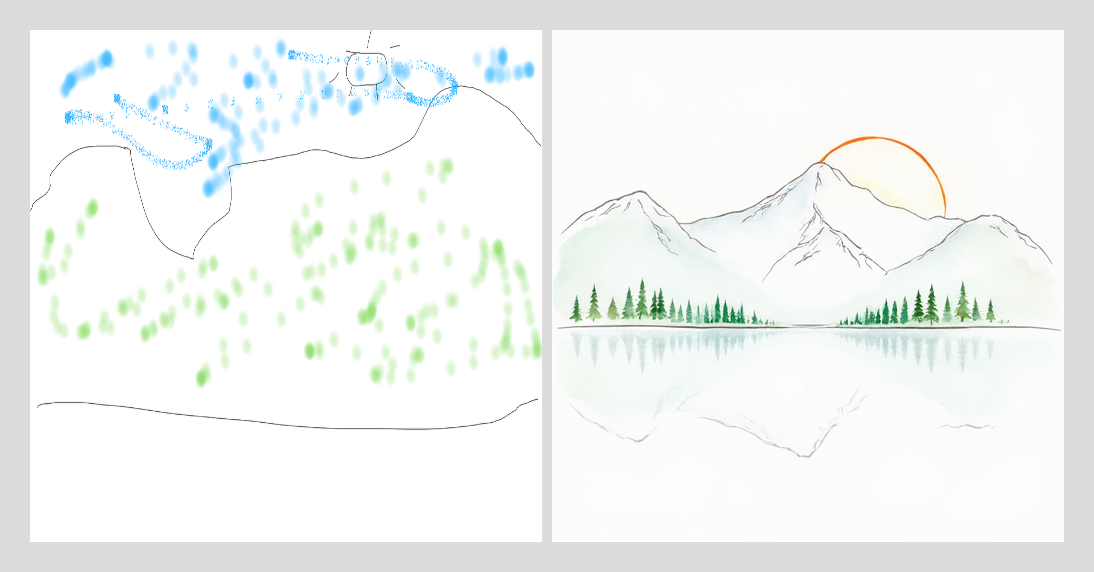
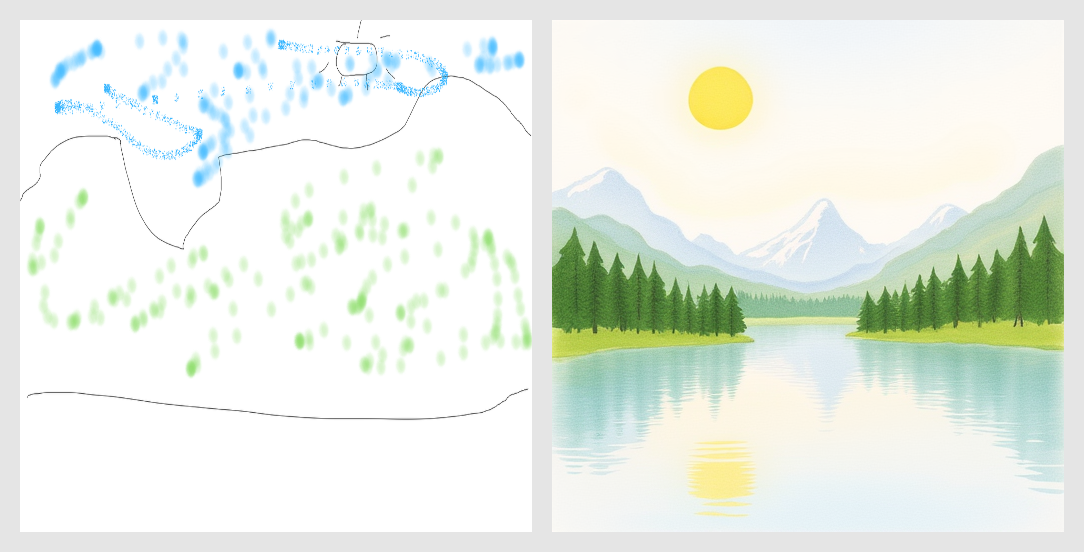
feat: add flux1.kontext dev support

diff --git a/Sources/cli.swift b/Sources/cli.swift
@@ -57,11 +57,8 @@ struct FluxTool: AsyncParsableCommand {
   @Option(name: .long, help: "Path to local LoRA weights file or Hugging Face repo id")
   var loraPath: String?
 
-  @Option(name: .long, help: "Path to initial image for image-to-image generation")
+  @Option(name: .long, help: "Path to initial image for image-to-image generation (Kontext model only)")
   var initImagePath: String?
-
-  @Option(name: .long, help: "Strength of initial image (0.0 to 1.0)")
-  var initImageStrength: Float?
 
   func run() async throws {
     var progressBar: ProgressBar?
@@ -79,11 +76,25 @@ struct FluxTool: AsyncParsableCommand {
         print(
           "Hugging Face token is not provided. Using default token from \(defaultTokenLocation)")
       }
+    case "kontext":
+      selectedModel = FluxConfiguration.flux1KontextDev
+      token = hfToken
+
+      if token == nil {
+        token = try? String(contentsOfFile: defaultTokenLocation, encoding: .utf8)
+        print(
+          "Hugging Face token is not provided. Using default token from \(defaultTokenLocation)")
+      }
     default:
-      throw ValidationError("Invalid model type. Please choose 'schnell' or 'dev'.")
+      throw ValidationError("Invalid model type. Please choose 'schnell', 'dev' or 'kontext'.")
+    }
+    
+    // Validate image-to-image is only used with kontext
+    if initImagePath != nil && model.lowercased() != "kontext" {
+      throw ValidationError("Image-to-image generation is only supported with the 'kontext' model. Use --model kontext")
     }
 
-    try await selectedModel.download(hub: model == "dev" ? HubApi(hfToken: token) : HubApi()) {
+    try await selectedModel.download(hub: (model == "dev" || model == "kontext") ? HubApi(hfToken: token) : HubApi()) {
       progress in
       if progressBar == nil {
         let complete = progress.fractionCompleted
@@ -132,28 +143,33 @@ struct FluxTool: AsyncParsableCommand {
     }
 
     let generator: ImageGenerator?
-    var denoiser: DenoiseIterator?
+    var denoiser: Any?
 
     let parameters: EvaluateParameters = EvaluateParameters(
       width: width, height: height, numInferenceSteps: steps, guidance: guidance, seed: seed,
-      prompt: prompt, shiftSigmas: model.lowercased() == "dev" ? true : false)
+      prompt: prompt, shiftSigmas: (model.lowercased() == "dev" || model.lowercased() == "kontext") ? true : false)
 
     if let initImagePath = initImagePath {
-      generator = try selectedModel.ImageToImageGenerator(configuration: loadConfiguration)
+      guard let kontextGenerator = try selectedModel.kontextImageToImageGenerator(hub: (model == "kontext") ? HubApi(hfToken: token) : HubApi(), configuration: loadConfiguration) else {
+        throw ValidationError("Failed to initialize Kontext image-to-image generator")
+      }
+      
+      generator = kontextGenerator
       generator?.ensureLoaded()
 
-      // Load and preprocess the input image
       let image = try Image(url: URL(fileURLWithPath: initImagePath))
-      let input = (image.data.asType(.float32) / 255) * 2 - 1
+      
+      let normalized = (image.data.asType(.float32) / 255) * 2 - 1
+      
 
-      let strength = initImageStrength ?? 0.3
-      denoiser = (generator as? ImageToImageGenerator)?.generateLatents(
+      let input = normalized
+
+      denoiser = kontextGenerator.generateKontextLatents(
         image: input,
-        parameters: parameters,
-        strength: strength
+        parameters: parameters
       )
     } else {
-      generator = try selectedModel.textToImageGenerator(configuration: loadConfiguration)
+      generator = try selectedModel.textToImageGenerator(hub: (model == "dev" || model == "kontext") ? HubApi(hfToken: token) : HubApi(), configuration: loadConfiguration)
       generator?.ensureLoaded()
       denoiser = (generator as? TextToImageGenerator)?.generateLatents(parameters: parameters)
     }
@@ -175,14 +191,26 @@ struct FluxTool: AsyncParsableCommand {
     print("- Output: \(output)")
     if let initImagePath {
       print("- Init Image: \(initImagePath)")
-      print("- Init Image Strength: \(initImageStrength ?? 0.3)")
+      if model.lowercased() == "kontext" {
+        print("- Mode: Kontext Image-to-Image")
+      }
     }
 
     var lastXt: MLXArray!
-    while let xt = denoiser!.next() {
-      print("Step \(denoiser!.i)/\(parameters.numInferenceSteps)")
-      eval(xt)
-      lastXt = xt
+    if let kontextDenoiser = denoiser as? KontextDenoiseIterator {
+      var iterator = kontextDenoiser
+      while let xt = iterator.next() {
+        print("Step \(iterator.i)/\(parameters.numInferenceSteps)")
+        eval(xt)
+        lastXt = xt
+      }
+    } else if let standardDenoiser = denoiser as? DenoiseIterator {
+      var iterator = standardDenoiser
+      while let xt = iterator.next() {
+        print("Step \(iterator.i)/\(parameters.numInferenceSteps)")
+        eval(xt)
+        lastXt = xt
+      }
     }
 
     print("Latent generation complete. Unpacking latents...")

diff --git a/Package.swift b/Package.swift
@@ -6,10 +6,12 @@ let package = Package(
   name: "flux.swift.cli",
   platforms: [.macOS(.v14), .iOS(.v16)],
   dependencies: [
-    .package(url: "https://github.com/mzbac/flux.swift.git", branch: "main"),
-    .package(url: "https://github.com/huggingface/swift-transformers", from: "0.1.13"),
+    .package(url: "https://github.com/mzbac/flux.swift", from: "0.1.6"),
+    .package(
+      url: "https://github.com/huggingface/swift-transformers", .upToNextMinor(from: "0.1.21")
+    ), 
     .package(url: "https://github.com/apple/swift-async-algorithms", from: "1.0.0"),
-    .package(url: "https://github.com/apple/swift-argument-parser", from: "1.5.0"),
+    .package(url: "https://github.com/apple/swift-argument-parser", from: "1.4.0"),
     .package(url: "https://github.com/jkandzi/Progress.swift", from: "0.4.0"),
   ],
   targets: [

diff --git a/README.md b/README.md
@@ -9,10 +9,10 @@
 ## Features
 
 - **Text-to-image generation**: Generate images from text prompts.
-- **Image-to-image generation**: Generate images using both text prompts and reference images.
+- **Image-to-image generation**: Generate images using both text prompts and reference images (Kontext model only).
 - **Customizable parameters**: Control image size, inference steps, guidance scale, and more.
 - **Model optimization**: Options for quantization and float16 precision.
-- **Multiple model support**: Choose between FLUX.1 Schnell and FLUX.1 Dev models.
+- **Multiple model support**: Choose between FLUX.1 Schnell, FLUX.1 Dev, and FLUX.1 Kontext Dev models.
 
 ## Installation
 
@@ -62,24 +62,28 @@ Once extracted, run `flux.swift.cli` via the command line:
 --seed <seed>           # Random seed for generation (default: 2)
 --quantize              # Enable model quantization
 --float16               # Enable float16 precision (default: true)
---model <type>          # FLUX model type: "schnell" or "dev" (default: "schnell")
---hf-token <token>      # Hugging Face API token (required for dev model)
---lora-path <path>      # Path to the LORA adapter file
---init-image-path <path>      # Path to the reference image for image-to-image generation
---init-image-strength <float> # Strength of the initial image influence (0-1, default: 0.3)
+--model <type>          # FLUX model type: "schnell", "dev", or "kontext" (default: "schnell")
+--hf-token <token>      # Hugging Face API token (required for dev and kontext models)
+--lora-path <path>      # Path to local LoRA weights file or Hugging Face repo id
+--init-image-path <path># Path to initial image for image-to-image generation (Kontext model only)
 ```
 
 ## Model Types
 
 - **FLUX.1 Schnell**: The default model, optimized for faster inference.
-- **FLUX.1 Dev**: A non commercial model that requires a Hugging Face API token.
+- **FLUX.1 Dev**: A non-commercial model that requires a Hugging Face API token.
+- **FLUX.1 Kontext Dev**: A non-commercial model that supports image-to-image generation and requires a Hugging Face API token.
 
-### Using FLUX.1 Dev Model
+### Using FLUX.1 Dev or Kontext Models
 
-To use the FLUX.1 Dev model, you need a Hugging Face API token with "Read access to contents of all public gated repos you can access" permission. Use the `--model dev` and `--hf-token` options:
+To use the FLUX.1 Dev or Kontext models, you need a Hugging Face API token with "Read access to contents of all public gated repos you can access" permission. Use the `--model` and `--hf-token` options:
 
 ```bash
+# For Dev model
 ./flux --model dev --hf-token YOUR_HF_TOKEN --prompt "Your prompt here"
+
+# For Kontext model (supports image-to-image)
+./flux --model kontext --hf-token YOUR_HF_TOKEN --prompt "Your prompt here"
 ```
 
 ## LORA Adapter
@@ -154,15 +158,14 @@ Note: Ensure that the LORA adapter is compatible with the FLUX model you're usin
 
 ![GHIBSKY style cat](images/ghibsky_cat.png)
 
-5. Generate an image using a reference image:
+5. Generate an image using a reference image (Kontext model only):
 
 ```bash
-./flux \
-  --model dev \
-  --prompt "Watercolor sketch of a tranquil mountain lake: a soft sun, pastel sky, subtle green pines, and delicate lines for distant snowy peaks." \
-  --init-image-path reference.png \
-  --init-image-strength 0.16 \
-  --steps 20 \
+./flux  \
+  --model kontext \
+  --prompt "turn this to watercolor of a tranquil mountain lake: a soft sun, pastel sky, subtle green pines, and delicate lines for distant snowy peaks." \
+  --init-image-path images/reference.png \
+  --steps 30 \
   --seed 43 \
   --guidance 3.5 \
   --height 512 \
@@ -170,3 +173,5 @@ Note: Ensure that the LORA adapter is compatible with the FLUX model you're usin
 ```
 
 ![Image to image generation](images/image_to_image.png)
+
+For optimal results with image-to-image generation, refer to the [FLUX Kontext Prompting Guide](https://docs.bfl.ai/guides/prompting_guide_kontext_i2i).
